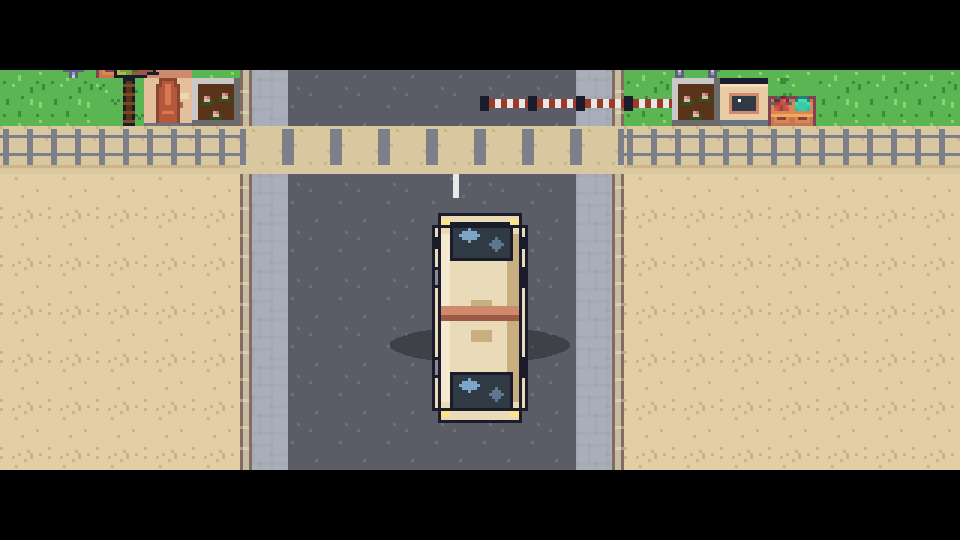
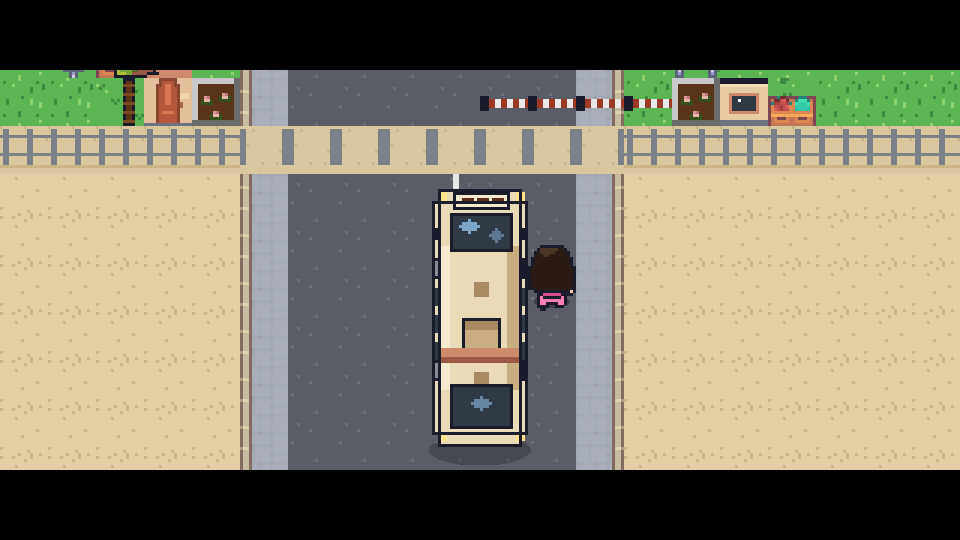
quality loop: Cutscenes run 2 fixes (visible disembark, real shadow, bus redesign, mutual facing)
1. "She is invisible after stepping off the bus" -- two stacked bugs:
   - Depth: ScriptRunner.syncActorVisuals() computed every actor's depth-sort "feet" as a
     fixed 8px below its sprite's own y (correct for a 16x24 character sheet, wrong for
     an 88px-tall bus image, which was sorting as if its feet sat only 8px below centre
     when its real pixels reached ~44px in every direction). Added actorFeetOffset(),
     using the image's own displayHeight/2 for `kind: 'image'` actors.
   - Positioning (the bigger one): her old disembark walk ended at the bus's own
     centreline, squarely inside its footprint -- she used to walk back behind it on
     purpose. She now disembarks at the bus's side (offset x=1.5, clear of its ~2-tile
     width with margin) and stays at that x for her whole "walk clear", never crossing
     back into the bus's column. Then turns to face the gate as it pulls away.

2. Shadow: was a fixed 60x12 regardless of the actual sprite. Now sized to the image's
   own displayWidth (+2px) and a proportional height, soft/low-alpha, positioned at its
   real feet -- same fix benefits any future `kind: 'image'` actor, not just the bus.

3. Bus redesign (tools/make-cutscenes.js buildBus(), 32x88, was 32x72): a destination
   display at the front, a full row of side windows down both edges, roof vents, a
   distinct AC/luggage unit, the campus terracotta stripe. Front and rear are no longer
[…]

Changed region(s): [[0.4062, 0.3259, 0.625, 0.8296]]

diff --git a/tools/make-cutscenes.js b/tools/make-cutscenes.js
@@ -466,15 +466,15 @@ return img;
 // directly above: a windshield cap (not a side window row), wheels only as small hints peeking from
 // under the body (never a full wheel silhouette), no side view of the body at all.
 //
-// Drawn nose-up (front cap at y=0, matching BUS_STEPS' own arrival direction, src/scripts.js) and
-// deliberately near-symmetric front/back (both ends are a rounded windshield cap) -- so
-// ScriptRunner's own `face` step can flip it vertically for the departure leg (src/scripts-runtime.js
-// step_face(), 'kind: image' actors) and the "other end" still reads as a believable front, not a
-// mismatched rear -- exactly the trick a real bus reversing/turning around off-screen would need
-// without a second, separately-drawn rear-view frame.
+// Drawn nose-up (front cap at y=0, matching BUS_STEPS' own arrival direction, src/scripts.js). The
+// front and rear caps are deliberately *not* identical any more (quality loop, Cutscenes run 2: "make
+// it read as a bus" wanted a destination display, which only a real front has) -- but flipping still
+// works correctly for the departure leg (src/scripts-runtime.js step_face(), 'kind: image' actors):
+// flipping the whole sprite vertically moves the front cap (display included) to the bottom, which is
+// exactly where the real front belongs once she's turned around to drive back out nose-first.
 function buildBus() {
 const BW = 32;
-const BH = 72;
+const BH = 88;
 const img = new Img(BW, BH);
 const C2 = {
   body: '#eadbb8', bodyShade: '#c9ae80', bodyHi: '#f5ead0',
@@ -483,6 +483,8 @@ const C2 = {
   wheel: '#1a1c2c', hub: '#8a8a94',
   mirror: '#1a1c2c',
   light: '#ffe38a',
+  display: '#f5ead0', displayText: '#5e2a20',
+  vent: '#a98a63', ac: '#c9ae80', acShade: '#a98a63',
   outline: '#1a1c2c',
 };
 const cx = BW / 2;
@@ -497,42 +499,55 @@ img.rect(0, 5, BW - 1, BH - 6, C2.body); // full width through the middle
 // has no alpha blending (only `px`/`ellipse` do), so these are solid, slightly muted tones rather
 // than a translucent overlay -- same approach buildGate2()/buildEntrance() already use for flat shade
 // bands elsewhere in this file.
-img.rect(2, 8, 5, BH - 9, C2.bodyHi);
-img.rect(BW - 7, 8, BW - 3, BH - 9, C2.bodyShade);
-// Roof vents down the centreline -- reads as "there's mechanical detail up here", not a blank slab.
-for (let vy = 30; vy < BH - 30; vy += 10) img.rect(cx - 3, vy, cx + 3, vy + 3, C2.bodyShade);
+img.rect(2, 20, 5, BH - 21, C2.bodyHi);
+img.rect(BW - 7, 20, BW - 3, BH - 21, C2.bodyShade);
 
-// The trim stripe, wrapping the full width around mid-body (the campus's own trim color, matching
-// every other cutscene in this file).
-img.rect(3, BH / 2 - 4, BW - 4, BH / 2 - 1, C2.stripe);
-img.rect(3, BH / 2 - 1, BW - 4, BH / 2, C2.stripeDeep);
+// Front cap: a destination display (a lit sign strip with a few dark "text" ticks, the thing that
+// most reads as "bus" from directly above) over the windshield, headlights tucked at the corners,
+// side mirrors just below.
+img.rect(7, 2, BW - 7, 7, C2.display);
+img.outlineRect(7, 2, BW - 7, 7);
+for (const tx of [10, 15, 20]) img.rect(tx, 4, tx + 3, 5, C2.displayText);
+img.rect(2, 2, 4, 4, C2.light);
+img.rect(BW - 4, 2, BW - 2, 4, C2.light);
+img.rect(6, 9, BW - 6, 21, C2.glass);
+img.ellipse(cx - 4, 13, 3, 2, C2.glassHi, 0.7);
+img.ellipse(cx + 5, 16, 2, 2, C2.glassHi, 0.4);
+img.outlineRect(6, 9, BW - 6, 21);
+img.rect(0, 14, 2, 17, C2.mirror);
+img.rect(BW - 2, 14, BW, 17, C2.mirror);
 
-// Front + rear windshield caps -- near-identical on purpose (see the file-level comment above).
-for (const capY of [4, BH - 18]) {
-  img.rect(6, capY, BW - 6, capY + 12, C2.glass);
-  img.ellipse(cx - 4, capY + 4, 3, 2, C2.glassHi, 0.7);
-  img.ellipse(cx + 5, capY + 7, 2, 2, C2.glassHi, 0.4);
-  img.outlineRect(6, capY, BW - 6, capY + 12);
-}
-// Headlights / tail-lights, small pale squares tucked at both far corners of each cap.
-for (const capY of [3, BH - 6]) {
-  img.rect(3, capY, 5, capY + 2, C2.light);
-  img.rect(BW - 6, capY, BW - 4, capY + 2, C2.light);
-}
-// Side mirrors: small dark tabs poking out near the front cap only (a real coach only has them up
-// front) -- kept even after a vertical flip, since a flipped bus is still "the same bus, now facing
-// the other way", not literally a different physical vehicle.
-img.rect(0, 9, 2, 12, C2.mirror);
-img.rect(BW - 2, 9, BW, 12, C2.mirror);
-
-// Wheels: hinted only (never a full side-view wheel), small dark rectangles just peeking from under
-// the body on both sides, at roughly the front and rear axle positions.
-for (const wy of [19, BH - 23]) {
+// Front + rear wheels: hinted only (never a full side-view wheel), small dark rectangles just peeking
+// from under the body on both sides, at roughly the front and rear axle positions.
+for (const wy of [24, BH - 30]) {
   img.rect(0, wy, 2, wy + 6, C2.wheel);
   img.rect(BW - 2, wy, BW, wy + 6, C2.wheel);
   img.rect(0, wy + 1, 1, wy + 5, C2.hub);
   img.rect(BW - 1, wy + 1, BW, wy + 5, C2.hub);
 }
+
+// The passenger body: a row of side windows peeking out from under the roof overhang on both long
+// edges (the thing that reads as "many rows of seats", i.e. a coach, not a car), roof vents and an
+// AC/luggage-rack unit down the centreline, and the campus trim stripe wrapping the full width.
+for (let wy = 34; wy < BH - 32; wy += 9) {
+  img.rect(0, wy, 2, wy + 5, C2.glass);
+  img.rect(BW - 2, wy, BW, wy + 5, C2.glass);
+}
+img.rect(cx - 2, 32, cx + 2, 36, C2.vent);
+img.rect(cx - 6, 44, cx + 6, 56, C2.ac);
+img.rect(cx - 6, 44, cx + 6, 47, C2.acShade);
+img.outlineRect(cx - 6, 44, cx + 6, 56);
+img.rect(cx - 2, 62, cx + 2, 66, C2.vent);
+img.rect(3, BH - 34, BW - 4, BH - 31, C2.stripe);
+img.rect(3, BH - 31, BW - 4, BH - 30, C2.stripeDeep);
+
+// Rear cap: a plain window (no display -- the front-facing one, above, is what a flip relocates to
+// the leading edge for the departure leg) and tail-lights.
+img.rect(6, BH - 22, BW - 6, BH - 8, C2.glass);
+img.ellipse(cx, BH - 16, 3, 2, C2.glassHi, 0.5);
+img.outlineRect(6, BH - 22, BW - 6, BH - 8);
+img.rect(2, BH - 6, 4, BH - 4, C2.light);
+img.rect(BW - 4, BH - 6, BW - 2, BH - 4, C2.light);
 
 // Outline the silhouette: the two rects' own edges, giving the cap its rounded-corner step for free.
 img.outlineRect(2, 1, BW - 3, BH - 2);

diff --git a/src/scripts.js b/src/scripts.js
@@ -30,10 +30,16 @@
 // her at the 'spawn' anchor) just as readily as it plays from a live walk-in a few tiles further along
 // the same approach (the fast path) -- ADR 0016's own "a later map change doesn't break the script"
 // concern, taken one step further (a few tiles of *player* variance doesn't break it either).
+// Quality loop (Cutscenes run 2): "Mustafa should face her while talking, and she should face him" --
+// explicit `face` steps right before every `say`, rather than relying on incidental leftover facing
+// from whichever `move` happened to run last (fragile: the first `say` already happened to work this
+// way purely because he walked toward her, but the second one didn't -- both walked the same
+// direction together and were left facing forward, side by side, not at each other).
 const MUSTAFA_MEETS_HER_CORE = [
   { spawnActor: { id: 'mustafa', sprite: 'npc-mustafa', at: { actor: 'player', offset: [0, -5] }, facing: 'down' } },
   { move: { actor: 'mustafa', path: [{ actor: 'player', offset: [0, -2] }], speed: 4 } },
-  { face: { actor: 'player', dir: 'up' } },
+  { face: { actor: 'mustafa', dir: 'down' } }, // he's now north of her -- face her
+  { face: { actor: 'player', dir: 'up' } }, // she faces him back
   { emote: { actor: 'mustafa', kind: '!' } },
   // Line 1 reused verbatim from the old gate2 cutscene (src/cutscenes.js); line 2 is NEW (short,
   // functional -- "get moving" -- per this task's own brief for onboarding lines).
@@ -42,13 +48,13 @@ const MUSTAFA_MEETS_HER_CORE = [
     { move: { actor: 'mustafa', path: [{ actor: 'mustafa', offset: [-1, -5] }], speed: 3.5 } },
     { move: { actor: 'player', path: [{ actor: 'player', offset: [1, -5] }], speed: 3.5 } },
   ] },
-  { face: { actor: 'mustafa', dir: 'up' } },
-  { face: { actor: 'player', dir: 'up' } },
+  // They're side by side now, mustafa 2 tiles to her left -- face each other again before he speaks.
+  { face: { actor: 'mustafa', dir: 'right' } },
+  { face: { actor: 'player', dir: 'left' } },
   { cameraPan: { to: 'Main Block entrance', ms: 1600 } },
   { wait: 250 },
   // NEW line (the brief's own suggested wording for this exact beat).
   { say: { speaker: 'Mustafa', lines: ['The LUG stall is inside the Main Block — behind the staircase.'] } },
-  { face: { actor: 'mustafa', dir: 'down' } },
   { cameraPan: { to: { actor: 'player' }, ms: 1200 } },
   { cameraFollow: 'player' },
 ];
@@ -59,15 +65,28 @@ const MUSTAFA_MEETS_HER_CORE = [
 // point is relative to the 'gate' anchor (the real Gate 2 object, tools/campus/build-campus.js),
 // offsets in tiles, "+y" being further out along the approach (away from campus) per that generator's
 // own coordinate sense.
+// Quality loop (Cutscenes run 2, 2026-09-29): "she is invisible after stepping off the bus". Root
+// cause (fixed at the engine level too, src/scripts-runtime.js syncActorVisuals()/actorFeetOffset())
+// was actually two bugs stacked -- a depth-sort bug (the bus's own "feet" were computed the same
+// fixed 8px-below-center way a 16x24 character's are, wildly wrong for an 88px-tall image) *and* this
+// data bug: her old disembark walk ended at offset [0, 2] -- back on the bus's own centreline (its
+// footprint spans roughly x:[-1,+1]) and squarely inside its vertical extent, i.e. she used to walk
+// back *behind* the bus on purpose. She now disembarks at the bus's own side (x offset 1.5, clear of
+// that footprint with margin to spare) and stays at that same x for her whole "walk clear" -- never
+// crossing back into the bus's column at all, belt-and-suspenders with the depth fix above.
 const BUS_STEPS = [
   { setActorVisible: { actor: 'player', visible: false } },
   { cameraPan: { to: { anchor: 'Gate 2 (Main Entrance)', offset: [0, 2] }, ms: 10 } }, // settle on the gate before she'd otherwise be framed
   { spawnActor: { id: 'bus', sprite: 'bus', kind: 'image', at: { anchor: 'Gate 2 (Main Entrance)', offset: [0, 9] }, facing: 'up' } },
   { move: { actor: 'bus', path: [{ anchor: 'Gate 2 (Main Entrance)', offset: [0, 3] }], speed: 6, ease: 'Cubic.easeOut' } },
   { wait: 400 },
-  { placeActor: { actor: 'player', at: { anchor: 'Gate 2 (Main Entrance)', offset: [1, 3] }, facing: 'down' } },
+  // Steps out at the bus's own side (the "door"), facing back toward it for a beat before walking on.
+  { placeActor: { actor: 'player', at: { anchor: 'Gate 2 (Main Entrance)', offset: [1.5, 3] }, facing: 'left' } },
   { setActorVisible: { actor: 'player', visible: true } },
-  { move: { actor: 'player', path: [{ anchor: 'Gate 2 (Main Entrance)', offset: [0, 2] }], speed: 3 } },
+  { wait: 200 },
+  // Walks 1.5 tiles clear, staying at the same x the whole way -- never back over the bus's own column.
+  { move: { actor: 'player', path: [{ anchor: 'Gate 2 (Main Entrance)', offset: [1.5, 1.5] }], speed: 3 } },
+  { face: { actor: 'player', dir: 'up' } }, // turns toward the gate as the bus pulls away, below
   { wait: 250 },
   // Quality loop (Cutscenes run 1): the bus is drawn nose-up (tools/make-cutscenes.js buildBus());
   // turning to 'down' before pulling away flips it vertically so it still reads nose-first while

diff --git a/src/scripts-runtime.js b/src/scripts-runtime.js
@@ -148,18 +148,32 @@ class ScriptRunner {
     actorEntry.sprite.anims.play(key, true);
   }
 
+  // How far an actor's own "feet" (the ADR 0015 depth-sort line) sit below its sprite's own y --
+  // ACTOR_FEET_OFFSET for a 16x24 character sheet (player/NPC-shaped actors), but a plain `image`
+  // actor (the bus) can be any size at all, so its real bottom edge (half its own display height)
+  // is what has to sort against everything else, not the character constant. Quality loop (Cutscenes
+  // run 2, 2026-09-29): using ACTOR_FEET_OFFSET for the bus too was the root cause of "she's invisible
+  // after stepping off" -- an 88px-tall image was claiming its feet sat only 8px below its center, so
+  // depth-sorted as if it were a normal-sized character standing there, when its own drawn pixels
+  // actually reached ~44px in every direction -- comfortably covering anything standing at a depth the
+  // formula thought was safely "in front".
+  actorFeetOffset(actorEntry) {
+    return actorEntry.kind === 'image' ? actorEntry.sprite.displayHeight / 2 : ACTOR_FEET_OFFSET;
+  }
+
   // Depth-by-feet (ADR 0015) and the ground shadow, kept current every tick a script actor moves --
   // the player's own real shadow (world.js `playerShadow`) is reused for her; every other actor gets
   // its own, created in step_spawnActor.
   syncActorVisuals(actorEntry) {
     const sprite = actorEntry.sprite;
-    const depth = sprite.y + ACTOR_FEET_OFFSET;
+    const feet = this.actorFeetOffset(actorEntry);
+    const depth = sprite.y + feet;
     sprite.setDepth(depth);
     if (actorEntry.kind === 'player') {
       this.scene.playerShadow.setPosition(sprite.x, sprite.y + 9).setDepth(depth - 1);
       this.scene.updateHeldItem(this.scene.time.now, true);
     } else if (actorEntry.shadow) {
-      actorEntry.shadow.setPosition(sprite.x, sprite.y + 9).setDepth(depth - 1);
+      actorEntry.shadow.setPosition(sprite.x, sprite.y + feet).setDepth(depth - 1);
     }
   }
 
@@ -232,8 +246,17 @@ class ScriptRunner {
     const px = toPixel(point.x);
     const py = toPixel(point.y);
     if (kind === 'image') {
-      const image = this.scene.add.image(px, py, sprite).setDepth(py);
-      const shadow = this.scene.add.ellipse(px, py + 20, 60, 12, 0x000000, 0.3).setDepth(py - 1);
+      const image = this.scene.add.image(px, py, sprite);
+      // Quality loop (Cutscenes run 2): the shadow used to be a fixed 60x12 regardless of the actual
+      // image's own size -- far wider than the bus itself. Sized to the sprite's own footprint now
+      // (+2px, docs/plans own brief), soft and low-alpha like every other ground shadow in this game
+      // (world.js playerShadow/createNpcs()), positioned at its own feet (bottom edge), not a guessed
+      // offset.
+      const feet = image.displayHeight / 2;
+      const shadowW = image.displayWidth + 2;
+      const shadowH = Math.max(6, image.displayWidth * 0.32);
+      const shadow = this.scene.add.ellipse(px, py + feet, shadowW, shadowH, 0x000000, 0.22).setDepth(py + feet - 1);
+      image.setDepth(py + feet);
       this.actors.set(id, { sprite: image, shadow, kind: 'image', textureKey: sprite, facing });
       return;
     }
